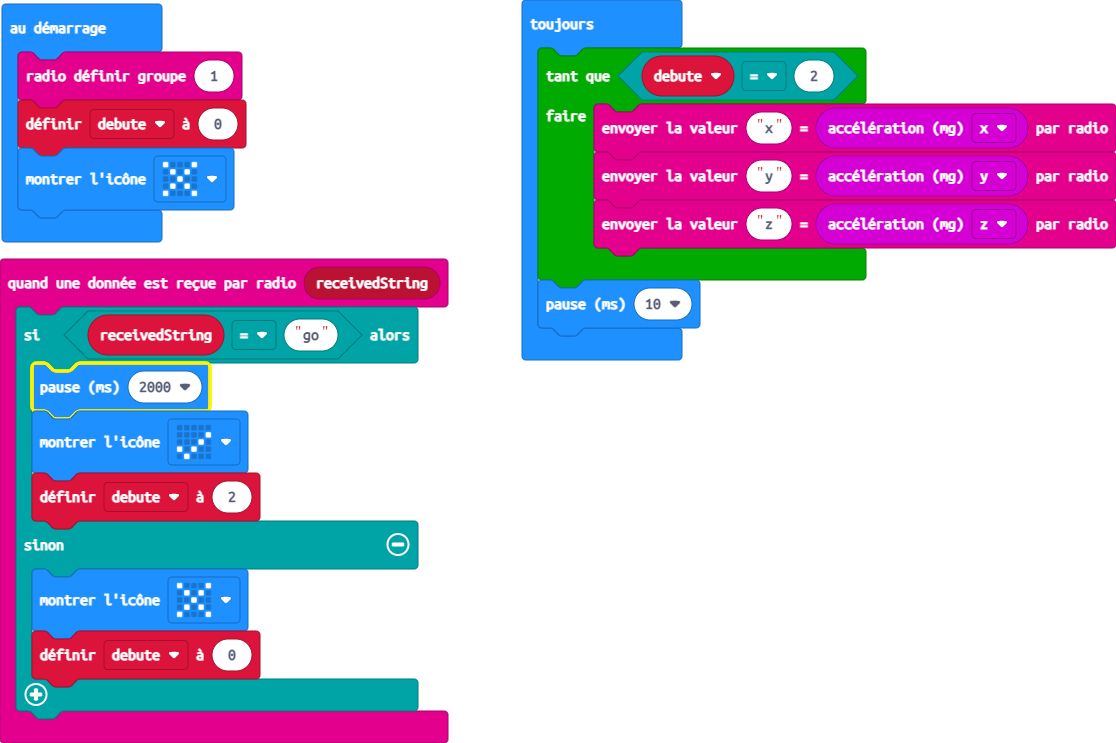
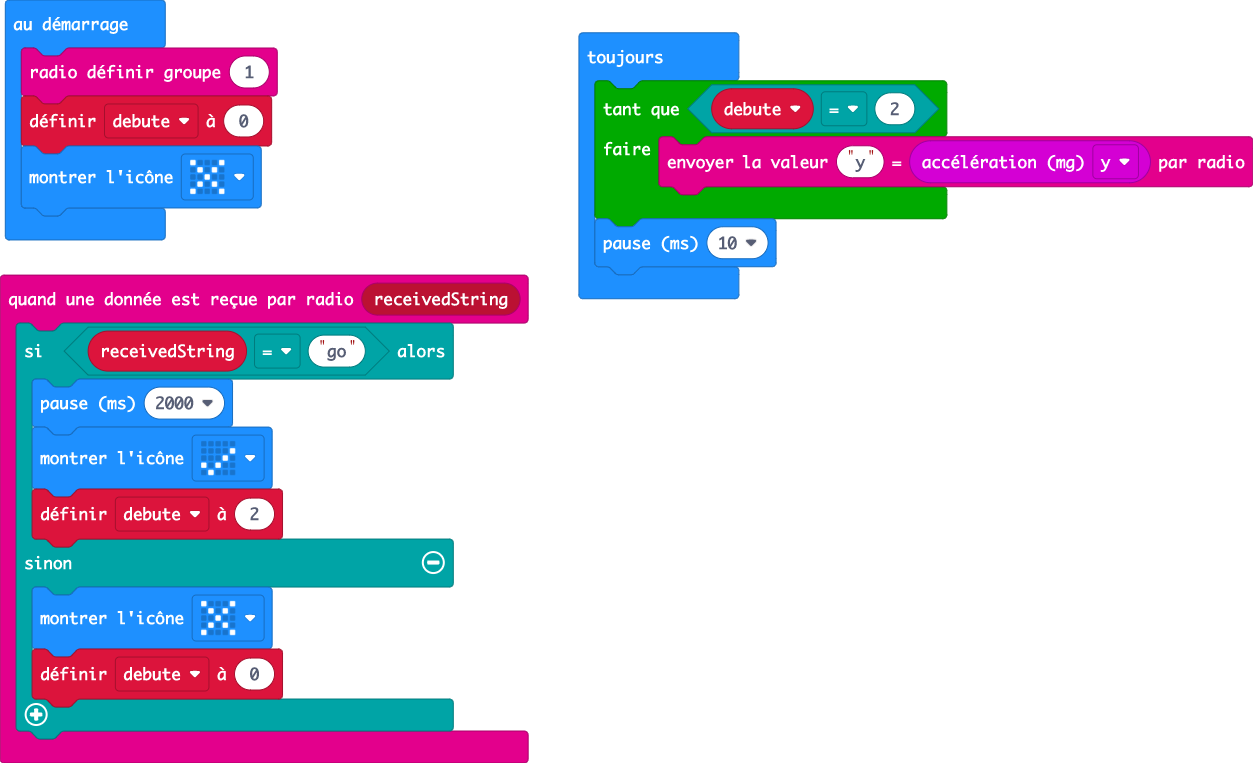
Mise à jour main.blocks, main.ts

Changed region(s): [[0.0, 0.0, 0.4265, 0.9906], [0.457, 0.0, 1.0, 0.4953], [0.3961, 0.9596, 0.4265, 1.0]]

diff --git a/main.ts b/main.ts
@@ -14,9 +14,7 @@ debute = 0
 basic.showIcon(IconNames.No)
 basic.forever(function () {
     while (debute == 2) {
-        radio.sendValue("x", input.acceleration(Dimension.X))
         radio.sendValue("y", input.acceleration(Dimension.Y))
-        radio.sendValue("z", input.acceleration(Dimension.Z))
     }
     basic.pause(10)
 })
